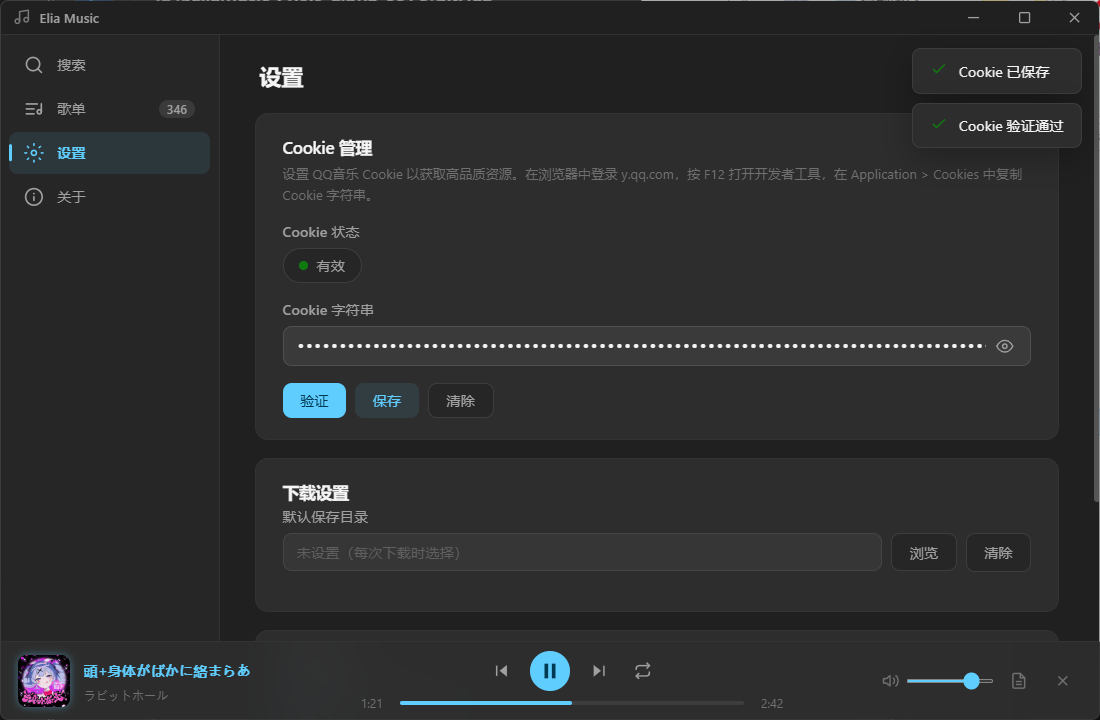
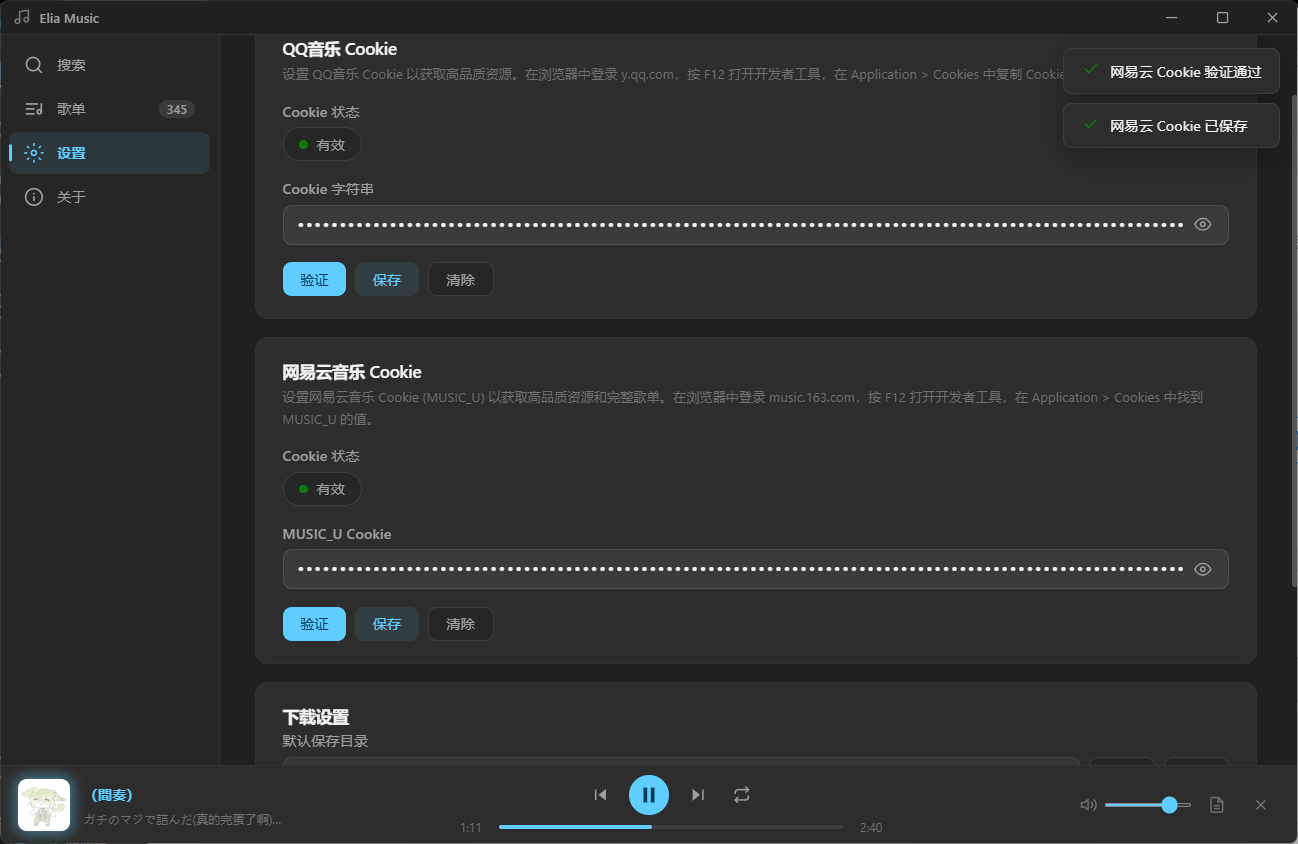
docs: 添加163音乐的说明，demo修改为alpha004发行版

diff --git a/README.md b/README.md
@@ -71,10 +71,10 @@ npm run build-l
 ## 使用说明
 
 ### Cookie 配置
-登录 [y.qq.com](https://y.qq.com)，按 F12 打开开发者工具 → Application → Cookies，复制 Cookie 字符串粘贴至"设置"页面。配置后即可下载高品质及 VIP 歌曲。
+登录 [y.qq.com](https://y.qq.com) / [music.163.com](https://music.163.com)，按 F12 打开开发者工具 → Application → Cookies，复制 Cookie 字符串粘贴至"设置"页面。配置后即可下载高品质及 VIP 歌曲。
 
 ### 歌单导入
-在搜索框粘贴 QQ 音乐歌单链接（如 `https://y.qq.com/n/yqq/playlist/123456.html`），自动解析并导入。
+在搜索框粘贴 QQ/网易云 音乐歌单链接（如 `https://y.qq.com/n/yqq/playlist/123456.html`，`https://music.163.com/playlist?id=123456789`），自动解析并导入。
 
 ## 目录结构
 
@@ -84,7 +84,7 @@ elia-music-desktop/
 │   ├── config/        # 配置文件
 │   ├── controller/    # IPC 控制器
 │   ├── preload/       # 预加载脚本与生命周期
-│   └── service/       # 业务服务（QQMusic API、HTTP Server、日志）
+│   └── service/       # 业务服务
 ├── public/
 │   ├── dist/          # 前端静态资源（HTML/CSS/JS）
 │   └── images/        # 图标资源

diff --git a/docs/demo.md b/docs/demo.md
@@ -1,4 +1,4 @@
-# 界面样式 Alpha 003 发行版
+# 界面样式 Alpha 004 发行版
 ### 歌单列表
 ![歌单列表](ui-01-list.png)
 ### 设置页面